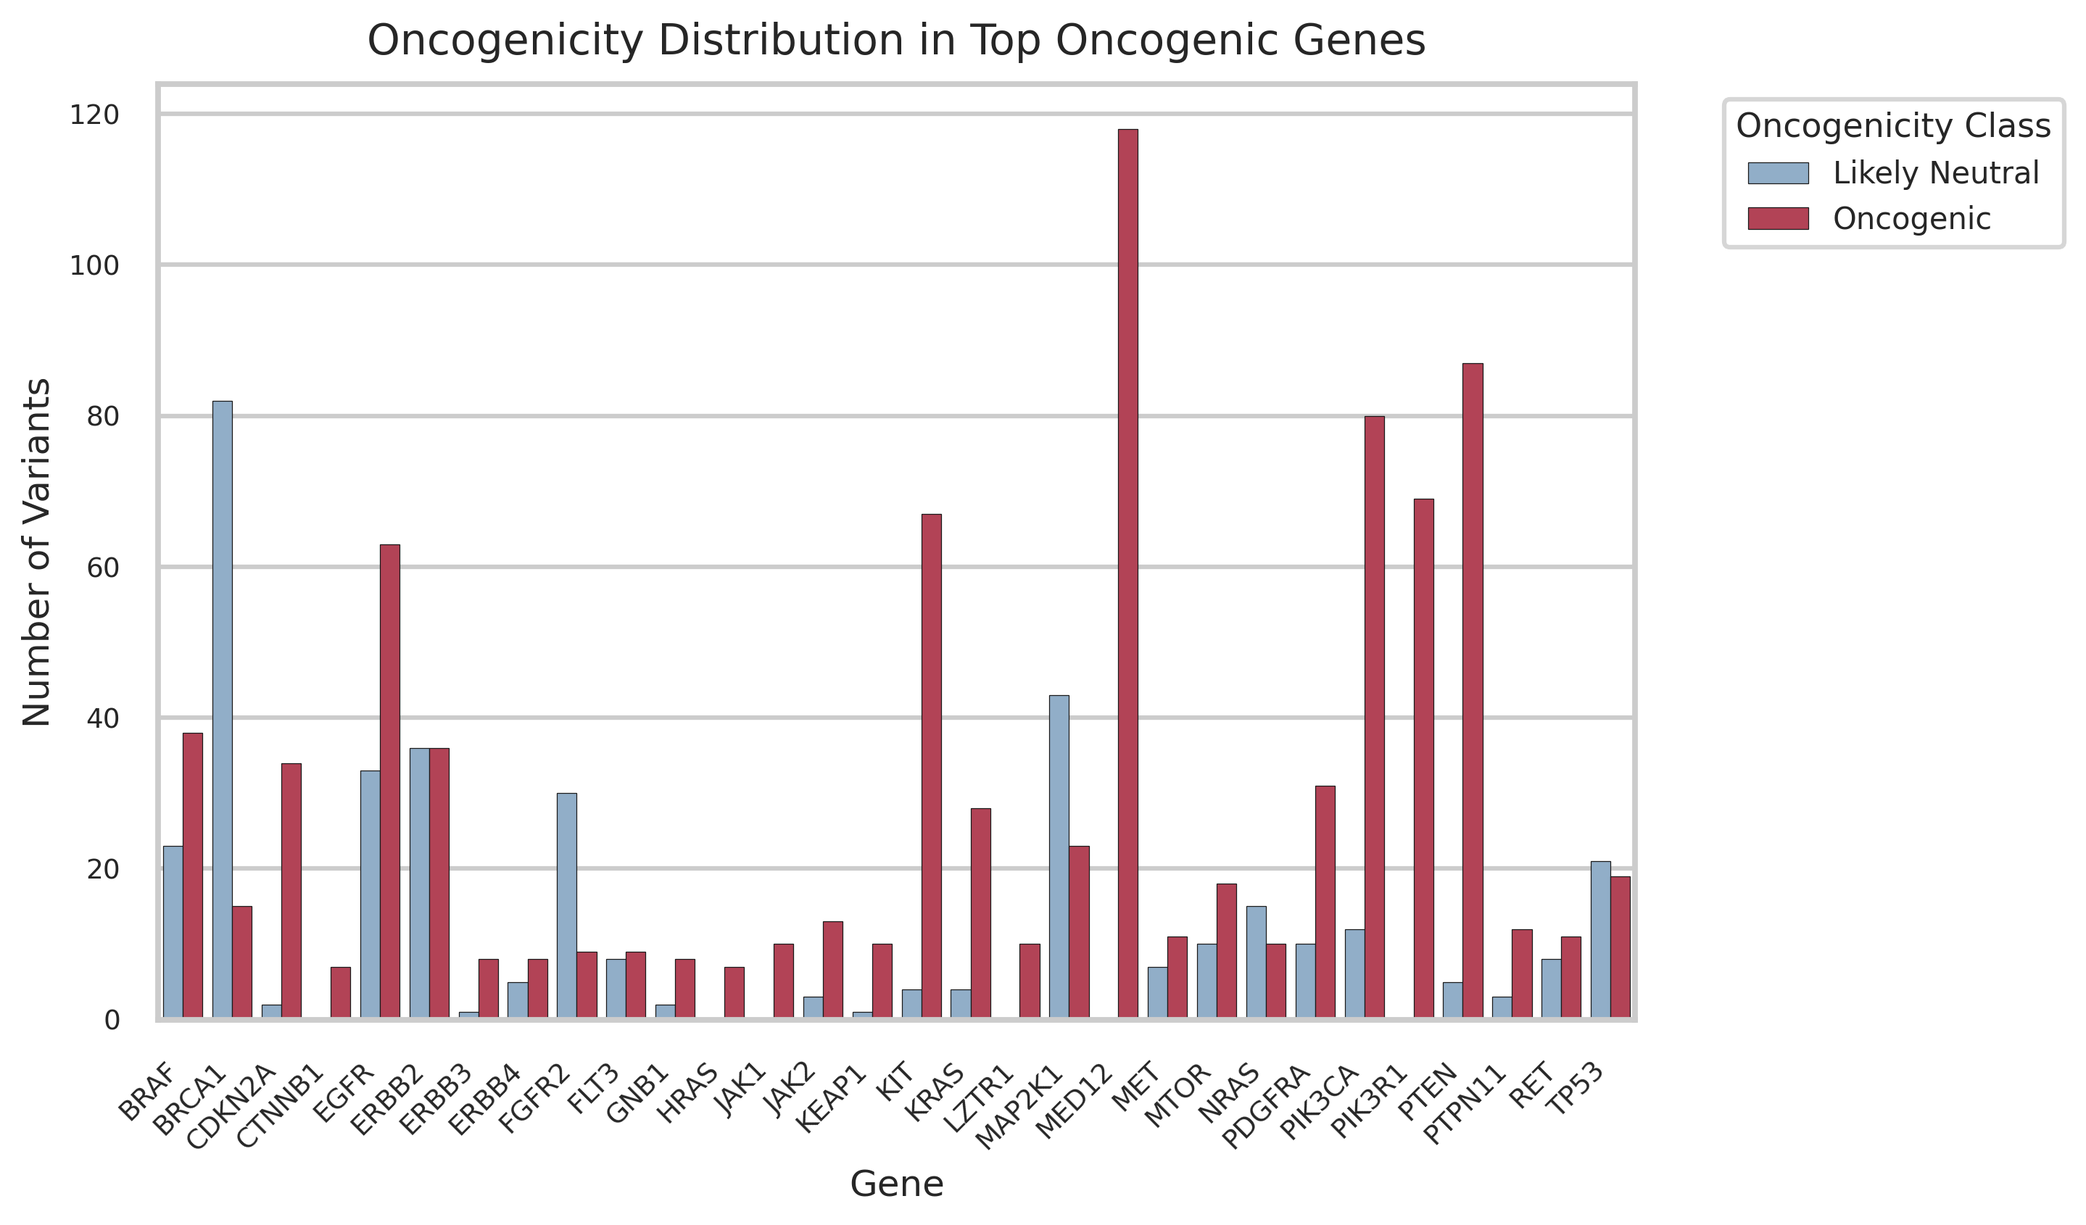
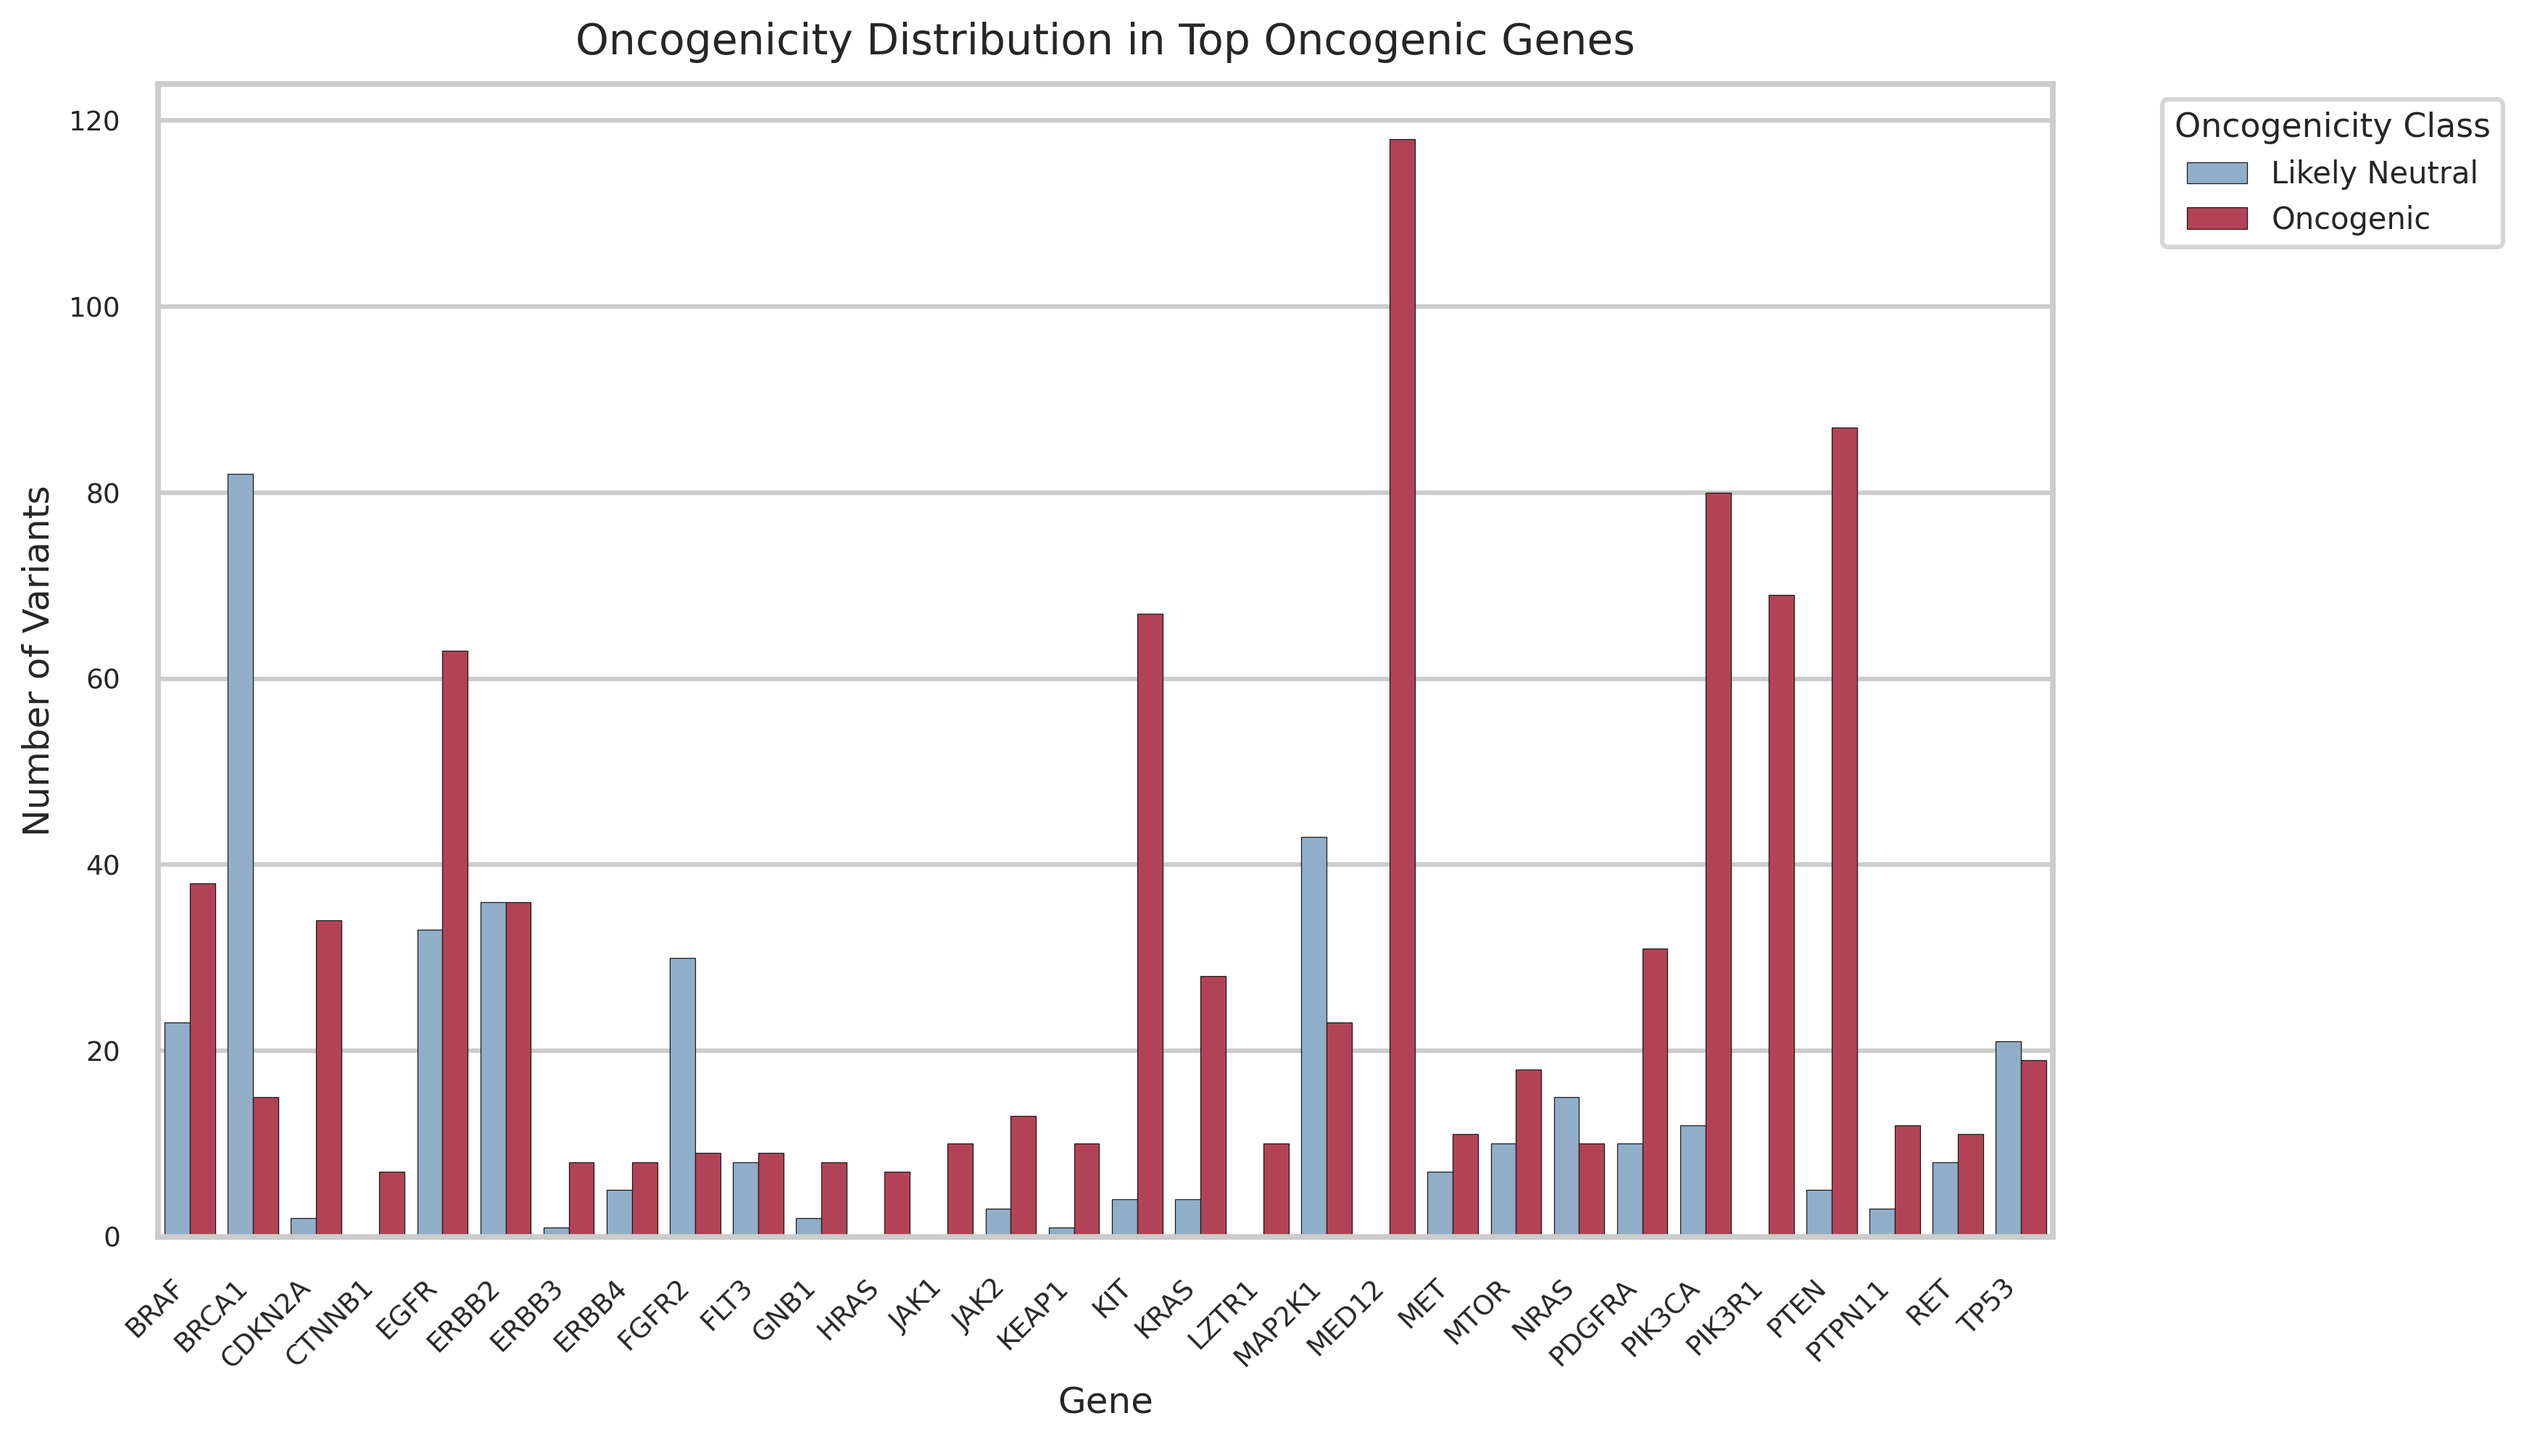
VIP

Changed region(s): [[0.0, 0.0, 1.0, 0.9538], [0.4022, 0.9538, 0.464, 0.9846]]

diff --git a/scripts/EDA/top_genes.py b/scripts/EDA/top_genes.py
@@ -88,6 +88,15 @@ print(f"Loaded {len(variants)} variants.")
 print("-"*30)
 
 #--------------------------------------------------------------------
+# Check number of unique genes
+#--------------------------------------------------------------------
+
+# Check number of unique genes 
+n_unique_genes = variants["Hugo_Symbol"].nunique() 
+
+print(f"The variant dataset consists of {n_unique_genes:,} unique genes.")
+
+#--------------------------------------------------------------------
 # Extract 'Oncogenic' variants
 #--------------------------------------------------------------------
 
@@ -101,6 +110,9 @@ oncogenic_genes = (
   .reset_index(name="Variant_Count") 
   .rename(columns={"Hugo_Symbol": "Gene"})
 )
+
+n_unique_onco = oncogenic_variants["Hugo_Symbol"].nunique() 
+print(f"Total number of genes with oncogenic variants: {n_unique_onco}")
 
 #--------------------------------------------------------------------
 # Extract 'Likely Oncogenic' variants
@@ -117,6 +129,9 @@ likely_oncogenic_genes = (
   .rename(columns={"Hugo_Symbol": "Gene"})
 )
 
+n_unique_likely_onco = likely_oncogenic_variants["Hugo_Symbol"].nunique() 
+print(f"Total number of genes with likely oncogenic variants: {n_unique_likely_onco}")
+
 #--------------------------------------------------------------------
 # Extract 'Likely Neutral' variants
 #--------------------------------------------------------------------
@@ -131,6 +146,9 @@ neutral_genes = (
   .reset_index(name="Variant_Count") 
   .rename(columns={"Hugo_Symbol": "Gene"})
   )
+
+n_unique_neutral = neutral_variants["Hugo_Symbol"].nunique() 
+print(f"Total number of genes with neutral variants: {n_unique_neutral}")
 
 #--------------------------------------------------------------------
 # Visualize top 30 genes for all oncogenicity classes 
@@ -237,7 +255,7 @@ distribution_filtered = distribution[
 
 sns.set_style(style="whitegrid") 
 
-plt.figure(figsize=(10,6)) 
+plt.figure(figsize=(12,7)) 
 
 sns.barplot(
     data=distribution_filtered,

diff --git a/scripts/EDA/cancerhotspots.py b/scripts/EDA/cancerhotspots.py
@@ -491,8 +491,4 @@ plt.show()
 print(f"OM3 plot saved as '{save_dir}/meets_hotspot_OM3.png'")
 print("-"*50)
 
-print(variants_onco_neutral["Pos_Total_Samples"].describe())
-print(variants_onco_neutral["Exact_AA_Count"].describe())
-print(variants_onco_neutral["In_Hotspot"].value_counts())
-
 print("\nCancer hotspot analysis complete!🥳🥳\n")
